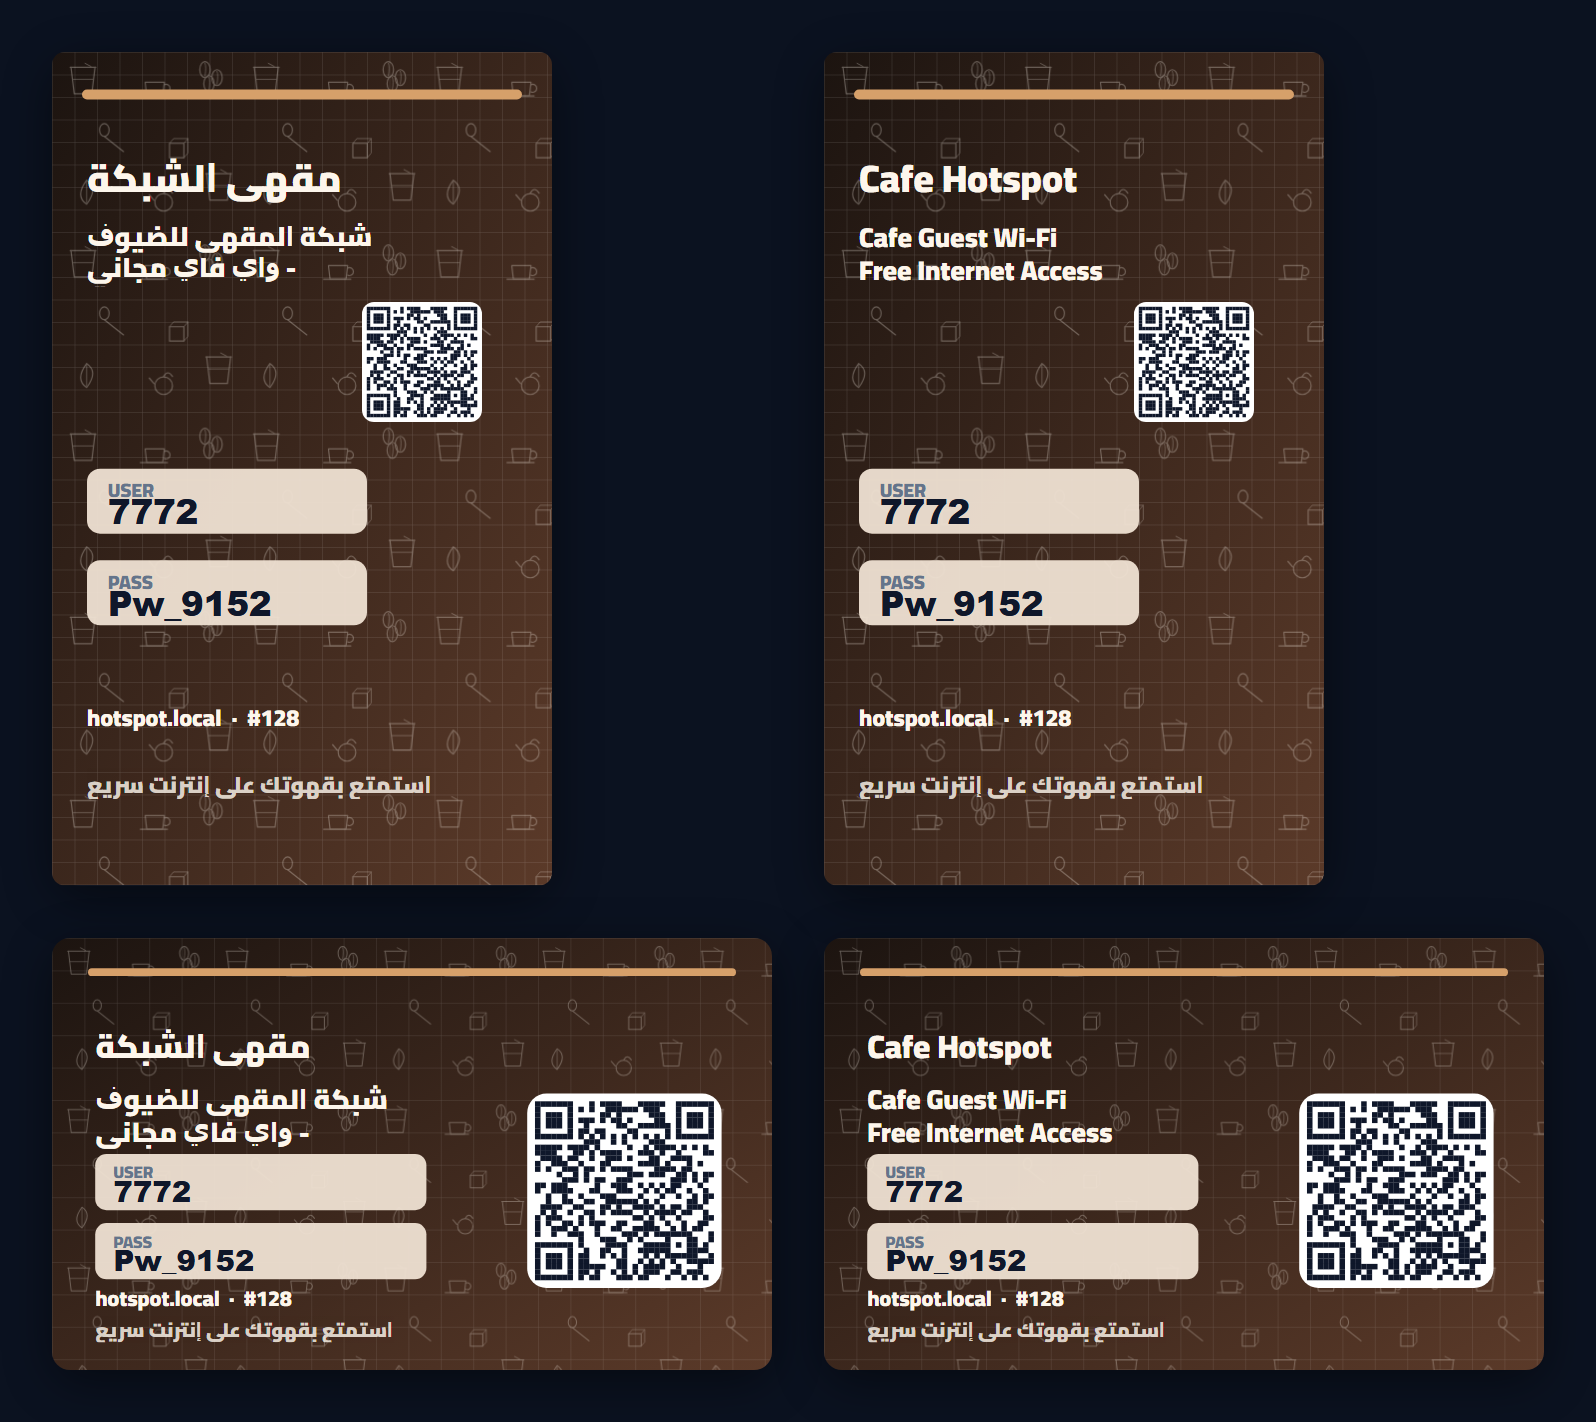
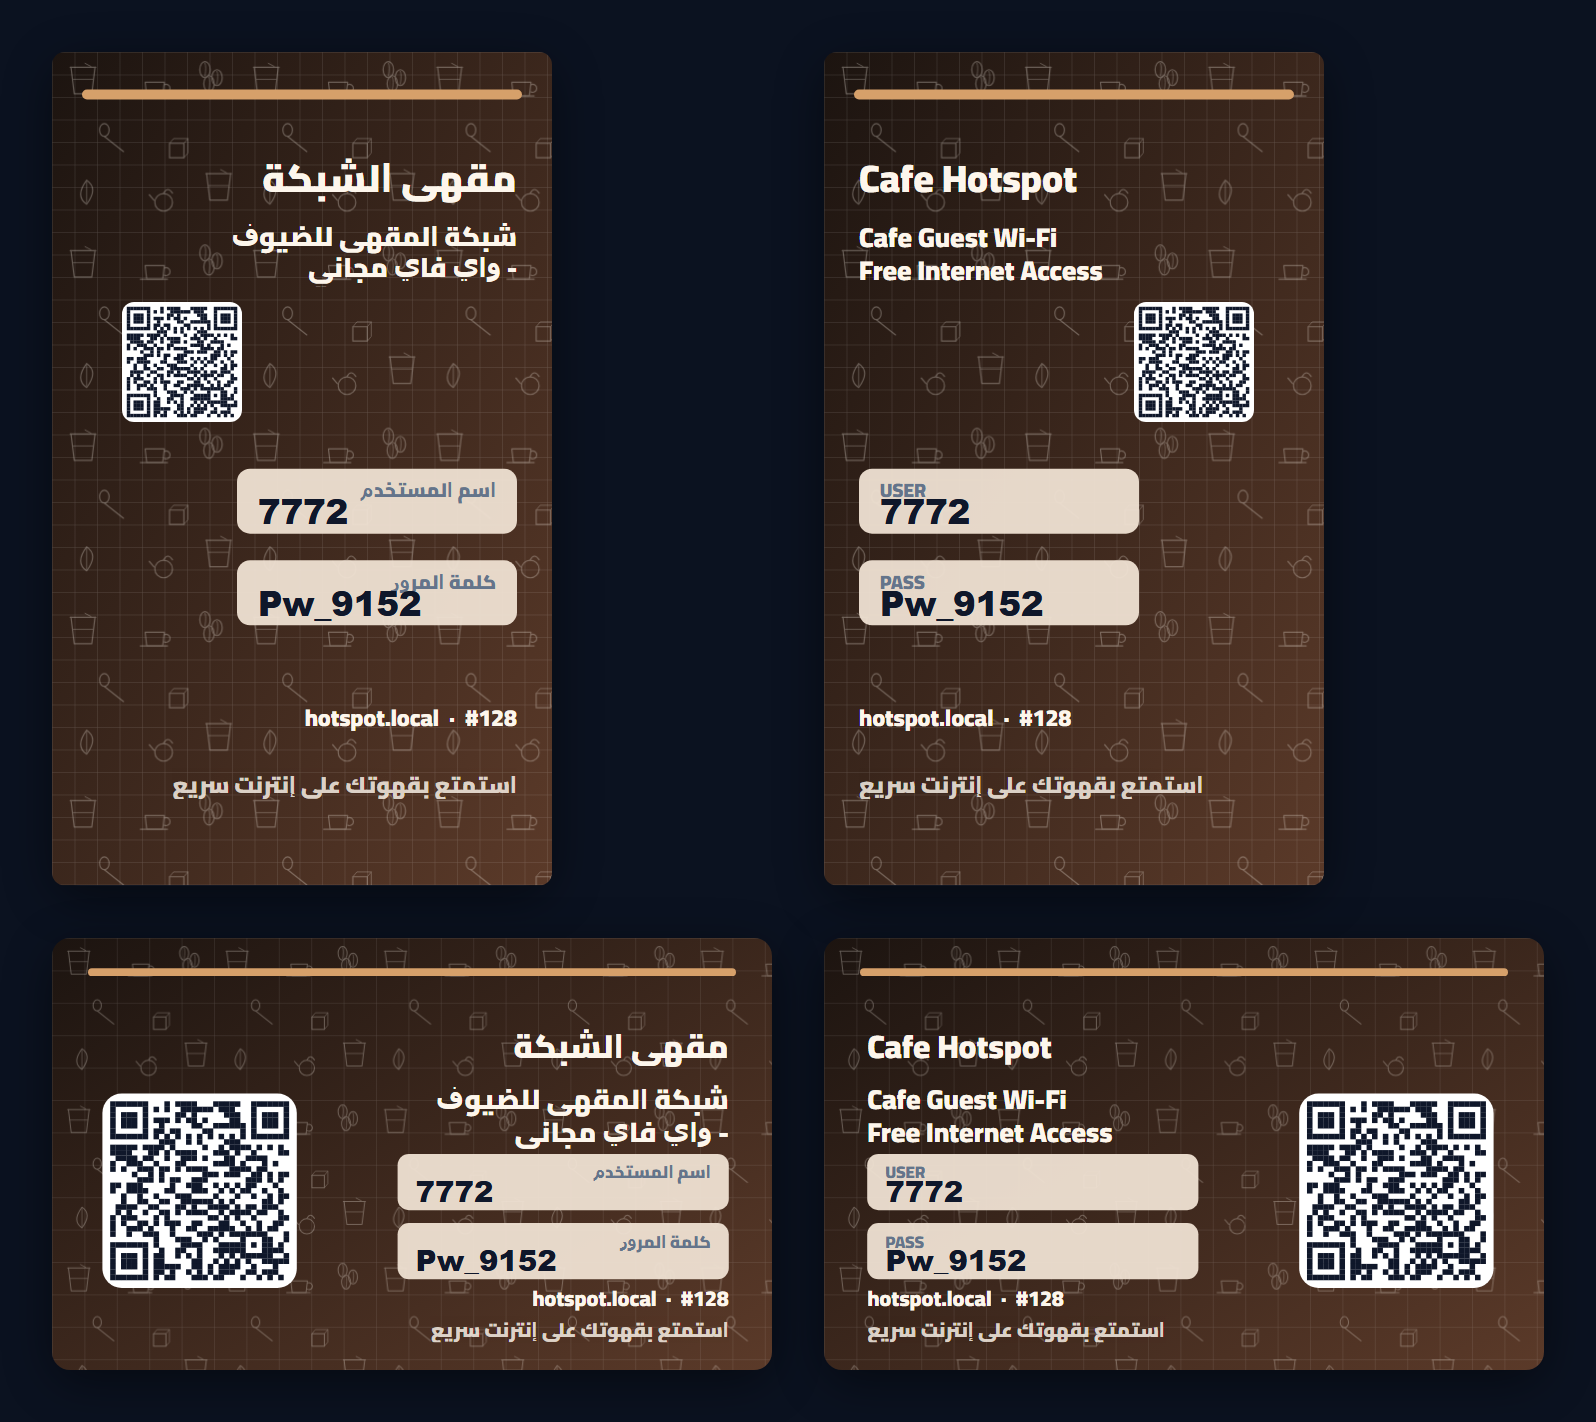
feat(card-renderer): مرآة تخطيط كاملة للعربية (RTL) — QR يسار/الحقول يمين
طلب المالك: التخطيط يُعكَس فعليًّا حسب لغة/اتجاه البطاقة لا مجرّد إعادة
تشكيل النص. للأوضاع العربية (عمودي/أفقي): QR إلى اليسار، حقول الاعتماد
إلى اليمين، العناوين/التسميات/النصوص محاذاة لليمين وتُقرأ من اليمين،
البراند/الفوتر/التسلسل بنفس محاذاة RTL. الإنجليزية تبقى LTR.

جذران:
1) **المعاينة كانت تُصيّر LTR للعربية** (سبب ظنّ المالك «تخطيط ثابت LTR»):
   `_template_layout` لا يُمرّر `render_engine`، فكان ينحلّ إلى en_* (LTR)؛
   الإصلاح: ضبط `layout['render_engine']` بعد `_template_layout` في
   tools/capture_card_footer.py فتُصيَّر الأوضاع العربية بمحرّك RTL.
2) **العناوين لم تُحاذَ لليمين** عند الـRTL: مرآة `_engine_default_positions`
   كانت تَعكس عناصر النص بـspan ثابت (0.78/0.55) لا يُطابق `heading_width`
   الفعلي (0.60/0.86 حسب ظهور QR)، فتقع الحافة اليمنى وسط البطاقة.

الإصلاح في card_renderer.py:
• `_engine_default_positions`: تعكس عناصر الصناديق فقط (QR/الحقول/accent)
  عبر عرضها الفعلي؛ عناصر النص (brand/title/meta/footer) تُترك لـbuild.
• `build_card_render_model`: عند RTL يُحاذي brand/title/meta/footer لليمين
  (الحافة اليمنى عند 1 − الهامش) بعرضها الفعلي (heading_width / عرض
  الميتا) عبر `_rtl_text_x` + معامل `x_px` الجديد في `_text_element`.
• تحقّق الحدود: لا عنصر يخرج خارج البطاقة [0,1] ولا تداخل QR/العنوان
  (العنوان على اليمين، QR على اليسار). تسميات الحقول العربية محاذاة يمينًا.

اختبار (+2): test_arabic_layout_mirrored_vs_english_both_orientations (QR
وحقول على جهتين متقابلتين AR↔EN، صورة مرآة)؛
[…]

Changed region(s): [[0.0614, 0.7117, 0.4605, 0.9592], [0.0307, 0.0928, 0.3377, 0.4641], [0.0614, 0.4951, 0.3377, 0.557]]

diff --git a/app/radius/services/card_renderer.py b/app/radius/services/card_renderer.py
@@ -1101,6 +1101,19 @@ def build_card_render_model(
         heading_width = 0.60 if orient == "vertical" else 0.55
     else:
         heading_width = 0.78 if orient == "vertical" else 0.86
+    # Meta/footer span (also their max_width below).
+    meta_footer_width = 0.80 if orient == "vertical" else 0.88
+
+    # RTL true-mirror for TEXT headings: right-align the text box to the right
+    # margin so Arabic reads from the right edge. (Box elements — QR/pills/
+    # accent — are already mirrored in _engine_default_positions.) For LTR we
+    # return None so the element keeps its default left-edge x.
+    text_margin = 0.07 if orient == "vertical" else 0.06
+
+    def _rtl_text_x(width_frac):
+        if render_direction != "rtl":
+            return None
+        return max(0.0, 1.0 - text_margin - width_frac) * canvas_w
 
     if not uploaded_design and show["brand"] and brand_text:
         brand_pos = positions["brand"]
@@ -1110,11 +1123,13 @@ def build_card_render_model(
             brand_text, brand_base, canvas_w * heading_width,
             weight=900, direction=render_direction,
             min_size_px=brand_base * 0.55, allow_wrap=False)
+        brand_left_px = (_rtl_text_x(heading_width)
+                         if render_direction == "rtl" else brand_pos["x"] * canvas_w)
         elements.append(_text_element(
             id="brand", text=brand_text, pos=brand_pos,
             canvas=(canvas_w, canvas_h), color=text_color, weight=900,
             max_width_frac=heading_width, direction=render_direction,
-            size_px=brand_size,
+            size_px=brand_size, x_px=_rtl_text_x(heading_width),
         ))
         # رَمز قِطاعيّ صَغير بِجانب الـbrand — اختياريّ، *مَوقوف افتراضيًّا*
         # (تَنقيح المالك يونيو 2026: «دفش ومبالغ فيه»). يُفعَّل من
@@ -1125,9 +1140,9 @@ def build_card_render_model(
             icon_motif = str(layout.get("icon") or "wifi").strip() or "wifi"
             icon_size = brand_size_px * 1.30
             if render_direction == "rtl":
-                # نَصّ يَنتهي عند x = brand.x + max_width (يَمين). الرَمز
-                # يَجلس يَسار النَصّ بمَسافة آمنة (~ icon_size).
-                icon_cx = (brand_pos["x"] * canvas_w) \
+                # النَصّ يَنتهي (يَمينًا) عند brand_left + max_width. الرَمز
+                # يَجلس يَمين النَصّ (بداية القراءة RTL) بمَسافة آمنة.
+                icon_cx = brand_left_px \
                            + (heading_width * canvas_w) + icon_size * 0.20
                 icon_cx = min(icon_cx, canvas_w - icon_size * 0.55)
             else:
@@ -1158,13 +1173,14 @@ def build_card_render_model(
             min_size_px=title_base * 0.62, allow_wrap=True,
             two_line_size_cap=two_cap)
         step = title_size * _HEADING_LINE_STEP
+        title_x_px = _rtl_text_x(heading_width)
         for i, line in enumerate(title_lines):
             elements.append(_text_element(
                 id="title" if i == 0 else f"title{i + 1}", text=line,
                 pos=title_pos, canvas=(canvas_w, canvas_h),
                 color=text_color, weight=950, max_width_frac=heading_width,
                 direction=render_direction, size_px=title_size,
-                y_px=title_y_px + i * step,
+                y_px=title_y_px + i * step, x_px=title_x_px,
             ))
 
     if show["username"] and username:
@@ -1232,16 +1248,17 @@ def build_card_render_model(
     if show["serial"]   and card_id:      meta_parts.append("#" + str(card_id))
     if not uploaded_design and meta_parts:
         meta_pos = positions["meta"]
+        meta_x = _rtl_text_x(meta_footer_width)
         elements.append({
             "kind": "text",
             "id": "meta",
             "text": "  ·  ".join(meta_parts),
-            "x": meta_pos["x"] * canvas_w,
+            "x": meta_x if meta_x is not None else meta_pos["x"] * canvas_w,
             "y": meta_pos["y"] * canvas_h,
             "size": meta_pos["size"] * canvas_h,
             "color": text_color,
             "weight": 800,
-            "max_width": canvas_w * (0.80 if orient == "vertical" else 0.88),
+            "max_width": canvas_w * meta_footer_width,
             "direction": render_direction,
         })
 
@@ -1255,17 +1272,18 @@ def build_card_render_model(
         max_footer_y = canvas_h * _CARD_SAFE_BOTTOM - footer_size * _TEXT_FULL_DESCENT
         if footer_y > max_footer_y:
             footer_y = max_footer_y
+        footer_x = _rtl_text_x(meta_footer_width)
         elements.append({
             "kind": "text",
             "id": "footer",
             "text": footer_text,
-            "x": footer_pos["x"] * canvas_w,
+            "x": footer_x if footer_x is not None else footer_pos["x"] * canvas_w,
             "y": footer_y,
             "size": footer_size,
             "color": text_color,
             "opacity": 0.82,
             "weight": 800,
-            "max_width": canvas_w * (0.80 if orient == "vertical" else 0.88),
+            "max_width": canvas_w * meta_footer_width,
             "direction": render_direction,
         })
 
@@ -2414,14 +2432,18 @@ def _engine_default_positions(
         })
     if render_direction != "rtl":
         return positions
-    width_by_key = {
-        "brand": 0.78 if orientation == "vertical" else 0.55,
-        "title": 0.78 if orientation == "vertical" else 0.55,
-        "meta": 0.80 if orientation == "vertical" else 0.88,
-        "footer": 0.80 if orientation == "vertical" else 0.88,
-    }
+    # RTL true-mirror of the BOX elements (QR → left, credential pills →
+    # right, accent bar): x → 1 − x − width. The TEXT headings (brand/title/
+    # meta/footer) are intentionally NOT mirrored here — their visual width is
+    # the runtime `heading_width`/meta-width (QR-dependent), known only in
+    # build_card_render_model, which right-aligns them to the right margin so
+    # Arabic reads from the right edge. Mirroring them here with a guessed
+    # span misplaced the right edge mid-card.
+    _text_keys = {"brand", "title", "meta", "footer"}
     for key, pos in positions.items():
-        span = width_by_key.get(key) or pos.get("width") or pos.get("size") or 0.0
+        if key in _text_keys:
+            continue
+        span = pos.get("width") or pos.get("size") or 0.0
         if span:
             pos["x"] = max(0.0, min(1.0, 1.0 - float(pos.get("x", 0.0)) - float(span)))
     return positions
@@ -2688,13 +2710,13 @@ def _fit_heading(text: str, base_size_px: float, max_width_px: float, *,
 def _text_element(*, id: str, text: str, pos: dict, canvas: tuple[int, int],
                    color: str, weight: int, max_width_frac: float,
                    direction: str = "ltr", size_px: float | None = None,
-                   y_px: float | None = None) -> dict:
+                   y_px: float | None = None, x_px: float | None = None) -> dict:
     cw, ch = canvas
     return {
         "kind": "text",
         "id": id,
         "text": text,
-        "x": pos["x"] * cw,
+        "x": x_px if x_px is not None else pos["x"] * cw,
         "y": y_px if y_px is not None else pos["y"] * ch,
         "size": size_px if size_px is not None else pos["size"] * ch,
         "color": color,

diff --git a/tests/test_card_renderer.py b/tests/test_card_renderer.py
@@ -827,3 +827,65 @@ def test_wrapped_arabic_lines_preserve_logical_word_order():
     words = title.split()
     assert tels[0]["text"].split()[0] == words[0], "first logical word not leading line 1"
     assert " ".join(e["text"] for e in tels).split() == words, "word order not preserved"
+
+
+# ───────────────────────────────────────────────────────────────────
+# True RTL layout mirror for Arabic (QR↔fields swap, headings right) —
+# English stays LTR.  [fix/card-footer-clip]
+# ───────────────────────────────────────────────────────────────────
+
+def _qr_field_centers(engine, w, h):
+    from app.radius.services.card_renderer import build_card_render_model
+    tmpl = _make_template(layout={
+        "render_engine": engine, "card_width_mm": w, "card_height_mm": h,
+        "card_orientation": "vertical" if h > w else "horizontal",
+        "show_qr": True})
+    m = build_card_render_model(tmpl, {"id": 1, "username": "u", "password": "p"})
+    cw = m["canvas"]["width"]
+    els = {e["id"]: e for e in m["elements"]}
+    qr, user = els["qr"], els["user"]
+    return (qr["x"] + qr["size"] / 2) / cw, (user["x"] + user["width"] / 2) / cw
+
+
+def test_arabic_layout_mirrored_vs_english_both_orientations():
+    """AR puts QR on the LEFT and credential fields on the RIGHT; EN is the
+    opposite — a true mirror, in both orientations."""
+    for w, h in ((85, 54), (54, 85)):
+        ar = "ar_horizontal" if w > h else "ar_vertical"
+        en = "en_horizontal" if w > h else "en_vertical"
+        ar_qr, ar_user = _qr_field_centers(ar, w, h)
+        en_qr, en_user = _qr_field_centers(en, w, h)
+        assert ar_qr < 0.5 < en_qr, ((w, h), "QR not mirrored", ar_qr, en_qr)
+        assert en_user < 0.5 < ar_user, ((w, h), "fields not mirrored", en_user, ar_user)
+        # roughly mirror images of each other
+        assert abs(ar_qr - (1 - en_qr)) < 0.06, ((w, h), ar_qr, en_qr)
+
+
+def test_arabic_headings_right_aligned_english_left():
+    """AR brand/title right-align to the right margin (read from the right);
+    EN brand/title left-align — in both orientations."""
+    from app.radius.services.card_renderer import build_card_render_model
+    for w, h in ((85, 54), (54, 85)):
+        vert = "vertical" if h > w else "horizontal"
+        ar = _make_template(layout={
+            "render_engine": ("ar_horizontal" if w > h else "ar_vertical"),
+            "card_width_mm": w, "card_height_mm": h, "card_orientation": vert,
+            "card_title": "عنوان البطاقة", "brand_name": "اسم العلامة",
+            "show_qr": True})
+        m = build_card_render_model(ar, {"id": 1, "username": "u", "password": "p"})
+        cw = m["canvas"]["width"]
+        els = {e["id"]: e for e in m["elements"]}
+        for key in ("brand", "title"):
+            e = els[key]
+            assert e["direction"] == "rtl"
+            right = (e["x"] + e["max_width"]) / cw
+            assert right > 0.85, (key, "AR heading not right-aligned", right)
+        en = _make_template(layout={
+            "render_engine": ("en_horizontal" if w > h else "en_vertical"),
+            "card_width_mm": w, "card_height_mm": h, "card_orientation": vert,
+            "card_title": "Card Title", "brand_name": "Brand", "show_qr": True})
+        m2 = build_card_render_model(en, {"id": 1, "username": "u", "password": "p"})
+        cw2 = m2["canvas"]["width"]
+        els2 = {e["id"]: e for e in m2["elements"]}
+        for key in ("brand", "title"):
+            assert els2[key]["x"] / cw2 < 0.12, (key, "EN heading not left-aligned")

diff --git a/tools/capture_card_footer.py b/tools/capture_card_footer.py
@@ -71,11 +71,15 @@ def _card_svg(preset: str, engine: str, w_mm: int, h_mm: int,
         extra["brand_name"] = ("Cafe Hotspot" if engine.startswith("en")
                                else "مقهى الشبكة")
     layout = _template_layout({
-        "design_preset": preset, "render_engine": engine,
+        "design_preset": preset,
         "card_width_mm": w_mm, "card_height_mm": h_mm,
         "card_orientation": "vertical" if h_mm > w_mm else "horizontal",
         **extra,
     })
+    # _template_layout does NOT carry through render_engine, so the engine
+    # would default to en_* (LTR) and Arabic cards render un-mirrored. Set it
+    # on the resolved layout so the AR engines (RTL) mirror the layout.
+    layout["render_engine"] = engine
     template = {"id": 1, "name": "t",
                 "orientation": "portrait" if h_mm > w_mm else "landscape",
                 "layout_json": layout}
